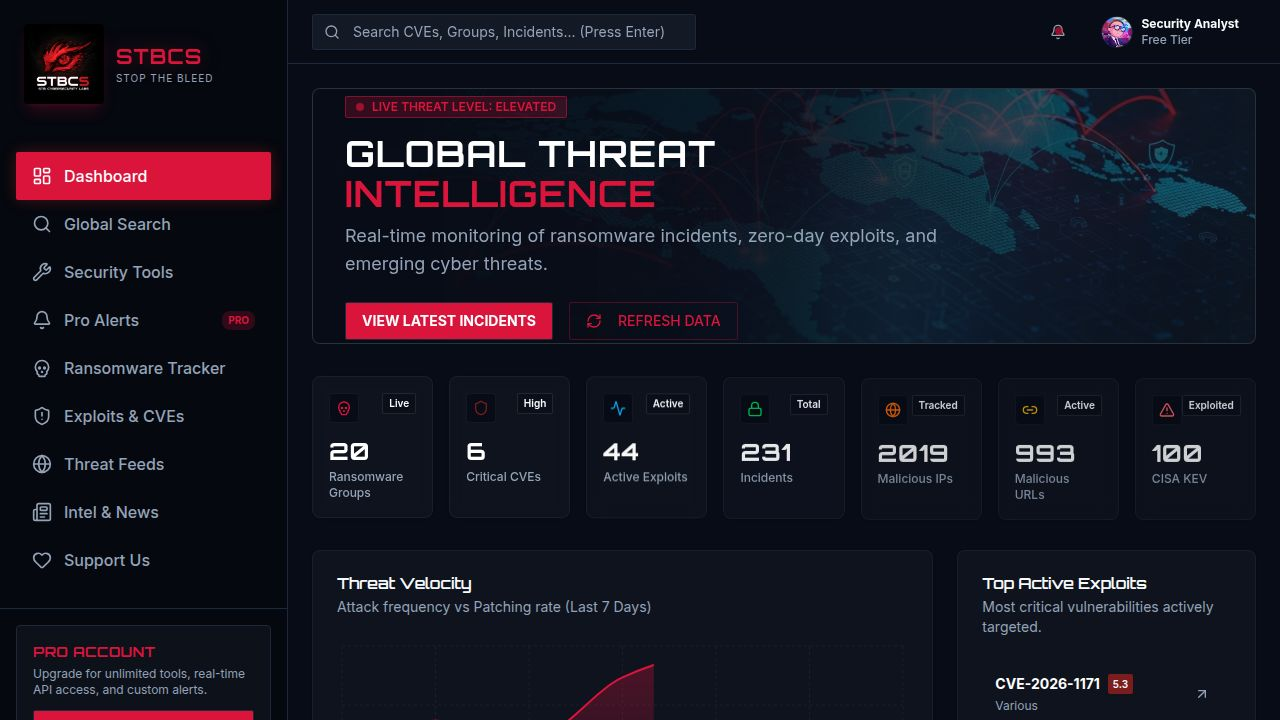
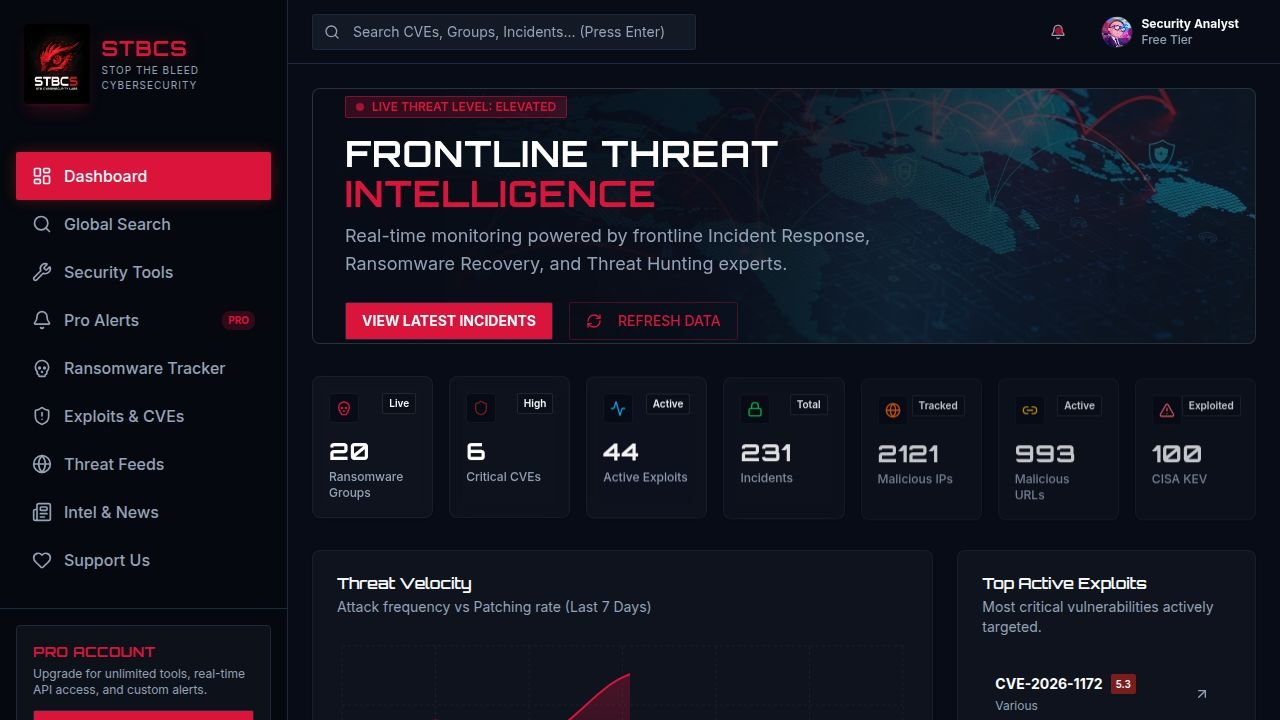
Add emergency hotline and contact options to the website
Integrates Quo phone system number into the footer, sidebar, and documentation, with click-to-call and click-to-text functionality.

Replit-Commit-Author: Agent
Replit-Commit-Session-Id: be38ecc5-d99f-423c-8340-b2af9b60731f
Replit-Commit-Checkpoint-Type: intermediate_checkpoint
Replit-Commit-Event-Id: bc4ab967-a4b3-428f-84c6-61b4fbb5ba76
Replit-Commit-Screenshot-Url: https://storage.googleapis.com/screenshot-production-us-central1/ef1a2641-077c-46f9-b918-b5fe8bca092d/be38ecc5-d99f-423c-8340-b2af9b60731f/mQx0p4B
Replit-Helium-Checkpoint-Created: true

diff --git a/client/src/components/footer.tsx b/client/src/components/footer.tsx
@@ -1,4 +1,4 @@
-import { Mail, Globe, Shield } from "lucide-react";
+import { Mail, Globe, Shield, Phone, MessageSquare } from "lucide-react";
 
 export default function Footer() {
   const currentYear = new Date().getFullYear();
@@ -13,9 +13,23 @@ export default function Footer() {
               <span className="font-display font-bold text-lg text-primary">STBCS</span>
             </div>
             <p className="text-sm text-muted-foreground mb-4 max-w-md">
-              STB Cybersecurity provides real-time threat intelligence, ransomware tracking, 
-              CVE monitoring, and professional security tools for security teams worldwide.
+              STB Cybersecurity provides frontline incident response, ransomware recovery, threat hunting, 
+              and real-time threat intelligence for small to medium-sized businesses.
             </p>
+            
+            <div className="bg-primary/10 border border-primary/30 rounded-lg p-3 mb-4 max-w-md">
+              <p className="text-xs text-primary font-bold mb-1 flex items-center gap-1">
+                <Phone className="h-3 w-3" /> EMERGENCY HOTLINE
+              </p>
+              <a 
+                href="tel:+18557821987" 
+                className="text-lg font-display font-bold text-white hover:text-primary transition-colors"
+                data-testid="link-phone-footer"
+              >
+                (855) STB-1987
+              </a>
+              <p className="text-xs text-muted-foreground mt-1">24/7 Incident Response</p>
+            </div>
             <div className="flex items-center gap-2 text-xs text-muted-foreground">
               <Globe className="h-3 w-3" />
               <span>stoptbcs.com</span>
@@ -27,6 +41,16 @@ export default function Footer() {
           <div>
             <h4 className="font-bold text-white text-sm mb-3">Contact</h4>
             <ul className="space-y-2 text-sm">
+              <li>
+                <a href="tel:+18557821987" className="text-muted-foreground hover:text-primary transition-colors flex items-center gap-2">
+                  <Phone className="h-3 w-3" /> (855) STB-1987
+                </a>
+              </li>
+              <li>
+                <a href="sms:+18557821987" className="text-muted-foreground hover:text-primary transition-colors flex items-center gap-2">
+                  <MessageSquare className="h-3 w-3" /> Text Us
+                </a>
+              </li>
               <li>
                 <a href="mailto:info@stoptbcs.com" className="text-muted-foreground hover:text-primary transition-colors flex items-center gap-2">
                   <Mail className="h-3 w-3" /> info@stoptbcs.com
@@ -40,11 +64,6 @@ export default function Footer() {
               <li>
                 <a href="mailto:support@stoptbcs.com" className="text-muted-foreground hover:text-primary transition-colors flex items-center gap-2">
                   <Mail className="h-3 w-3" /> support@stoptbcs.com
-                </a>
-              </li>
-              <li>
-                <a href="mailto:billing@stoptbcs.com" className="text-muted-foreground hover:text-primary transition-colors flex items-center gap-2">
-                  <Mail className="h-3 w-3" /> billing@stoptbcs.com
                 </a>
               </li>
             </ul>

diff --git a/client/src/components/layout.tsx b/client/src/components/layout.tsx
@@ -12,7 +12,9 @@ import {
   Globe,
   Wrench,
   Mail,
-  Heart
+  Heart,
+  Phone,
+  MessageSquare
 } from "lucide-react";
 import { useState, KeyboardEvent } from "react";
 import { Button } from "@/components/ui/button";
@@ -90,6 +92,32 @@ export default function Layout({ children }: { children: React.ReactNode }) {
       </div>
 
       <div className="p-4 border-t border-sidebar-border space-y-3">
+        <div className="bg-primary/10 border border-primary/30 rounded-lg p-3">
+          <p className="text-[10px] text-primary font-bold mb-1 flex items-center gap-1">
+            <Phone className="h-3 w-3" /> EMERGENCY HOTLINE
+          </p>
+          <a 
+            href="tel:+18557821987" 
+            className="text-base font-display font-bold text-white hover:text-primary transition-colors block"
+            data-testid="link-phone-sidebar"
+          >
+            (855) STB-1987
+          </a>
+          <div className="flex gap-2 mt-2">
+            <a 
+              href="tel:+18557821987" 
+              className="flex-1 bg-primary/20 hover:bg-primary/30 text-primary text-xs py-1.5 px-2 rounded flex items-center justify-center gap-1 transition-colors"
+            >
+              <Phone className="h-3 w-3" /> Call
+            </a>
+            <a 
+              href="sms:+18557821987" 
+              className="flex-1 bg-primary/20 hover:bg-primary/30 text-primary text-xs py-1.5 px-2 rounded flex items-center justify-center gap-1 transition-colors"
+            >
+              <MessageSquare className="h-3 w-3" /> Text
+            </a>
+          </div>
+        </div>
         <div className="bg-sidebar-accent/50 rounded-lg p-4 border border-sidebar-border">
           <h4 className="font-display text-sm font-bold text-primary mb-1">PRO ACCOUNT</h4>
           <p className="text-xs text-muted-foreground mb-3">Upgrade for unlimited tools, real-time API access, and custom alerts.</p>

diff --git a/replit.md b/replit.md
@@ -20,6 +20,7 @@ STB Cybersecurity (stoptbcs.com / stbcybersecurity.com) is a professional cybers
 - **Domains**: stoptbcs.com (primary), stbcybersecurity.com (secondary/redirect)
 - **Twitter/Social**: @stoptbcs
 - **Founder**: Kevin Brown
+- **Emergency Hotline**: (855) STB-1987 (24/7 Incident Response via Quo phone system)
 - **Contact Emails**:
   - info@stoptbcs.com - General inquiries
   - sales@stoptbcs.com - Sales and B2B services
